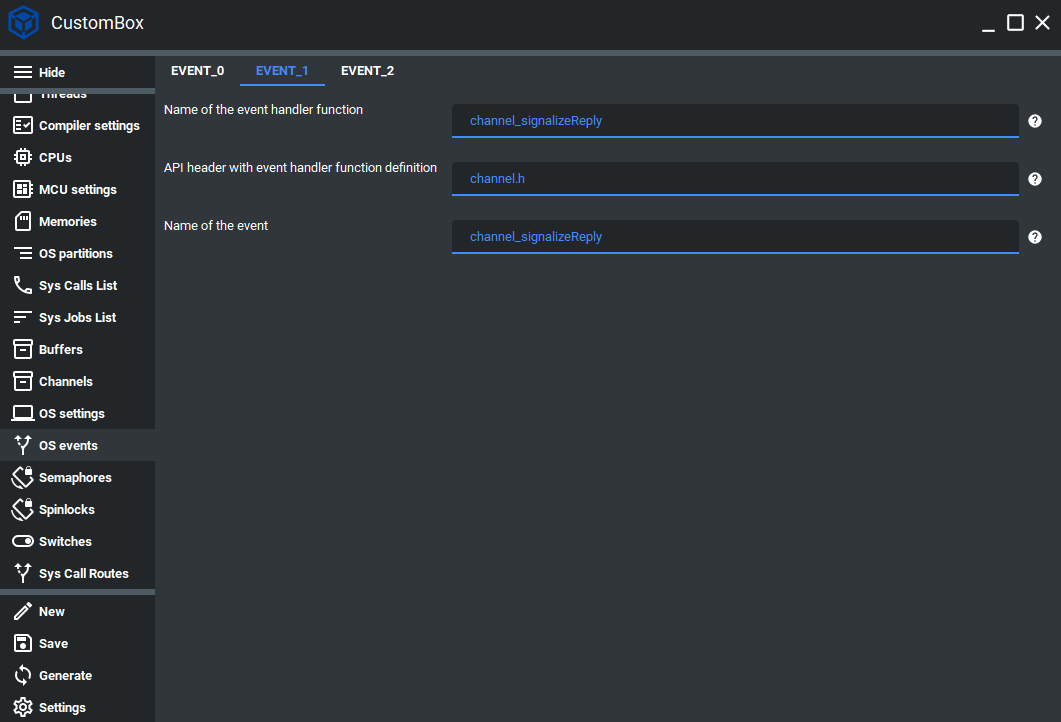
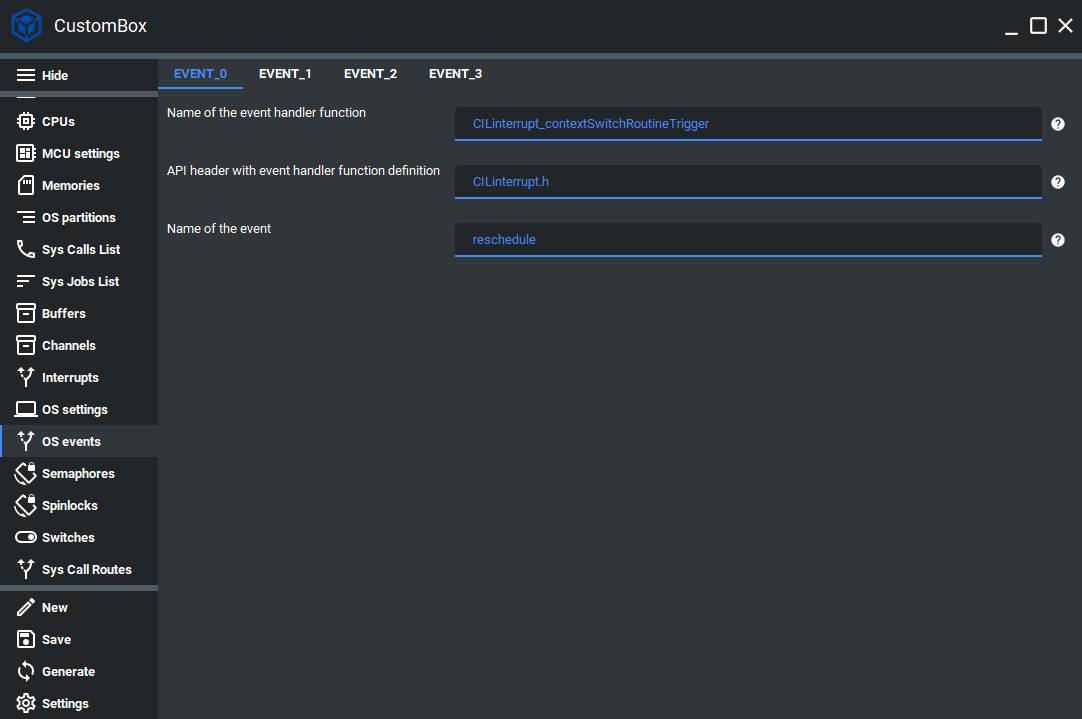
docu update

diff --git a/conf.py b/conf.py
@@ -78,6 +78,6 @@ html_favicon = 'favicon.ico'
 
 
 
-def setup(app: Sphinx) -> None:
+#def setup(app: Sphinx) -> None:
     # set recursice to false for a significant generation time reduction
-    convert_doxygen_to_rst(breathe_projects[breathe_default_project], "doxygen_rst", "Modules", "modules", recursive=True)
+    #convert_doxygen_to_rst(breathe_projects[breathe_default_project], "doxygen_rst", "Modules", "modules", recursive=True)

diff --git a/sites/demo/interrupt.rst b/sites/demo/interrupt.rst
@@ -1,2 +1,62 @@
 Interrupt
 =============================
+The interrupt module is dedicated to configure and dispatch all interrupts in the
+system. In the CosmOS we differentiate between two types of interrupts handling
+techniques - fast and slow.
+Fast interrupt is a method where the interrupt is handled directly in the Interrupt
+Service Routine (ISR). This allows user to handle the
+most critical interrupts immediately and it the interrupt service routine execution
+time should be very low.
+Slow interrupt is a method where the interrupt is handled in its specific thread.
+The thread is unblocked after the interrupt occurs, and
+blocked again when it is handled. This allows user to create non-blocking interrupt
+handling directly in the user space for non-critical interrupts and therefore it is
+possible to implement much complex algorithm inside the handling thread. We still
+suggest to keep the handler thread algorithm complexity at the minimum.
+For more information please read the interrupt section in the :ref:`about_whitepaper`.
+
+Configuration
+--------------
+1. Open the CustomBox
+```````````````````````
+Then we have to open from the left panel Interrupts tab to see all configured interrupt elements in the system as it is shown in the picture below.
+
+.. image:: ../../images/demos/interrupt.png
+
+2. Configure or add new interrupt
+````````````````````````````````````
+- Name of the interrupt is set to TIM2_interrupt, this is the name of the interrupt which will be used to generate interrupt identifier macro.
+- Name of the ISR handler function is set to TIM2_IRQ_Callback, this function will be generated in the interrupt configuration unit and will unblock the interrupt handler thread.
+- Thread is set to TIM2_xCore_IRQHandler_Thread CM7, this thread can call the interrupt handle function and will be unblock if the interrupt occurs.
+
+
+3. Generate
+```````````````
+After we click on the **Generate** button in the CustomBox left panel on the bottom, the interrupt configuration
+code is generated and we can use it in the application layer. The code examples of interrupt usage are shown in the next section.
+
+Code examples
+--------------
+
+Interrupt thread
+```````````````````````````````````
+
+.. code-block:: C
+
+    #include <interrupt.h>
+    #include <errorHandler.h>
+
+    CosmOS_InterruptStateType interruptState;
+
+    for ( ;; )
+    {
+        interruptState = interrupt_handle( TIM2_interrupt_id );
+        if( errorHandler_isError( interruptState ) )
+        {
+            //error was returned, check its value
+        }
+        else
+        {
+            //process interrupt
+        }
+    }

diff --git a/sites/demo/route.rst b/sites/demo/route.rst
@@ -1,2 +1,45 @@
-Route
+SysCall Routes
 =============================
+The route module is dedicated to mapping system calls to specific function handlers and entities.
+Currently, the system calls are used as an interface function for passing correct arguments types. This allows us to have mapped multiple function handlers and entities
+to the one system call interface function. To achieve such behavior, we need to have
+a unique route identifier and retrieve the correct function and entity in the system
+call dispatcher. Routes can be configured via the CosmOS CustomBox GUI in the
+tab Routes by the user or system integrator if there is a need to add some specific
+kernel side service.
+For more information please read the route section in the :ref:`about_whitepaper`.
+
+Configuration
+--------------
+1. Open the CustomBox
+```````````````````````
+Then we have to open from the left panel Sys Call Routes tab to see all configured route elements in the system as it is shown in the picture below.
+
+.. image:: ../../images/demos/route.png
+
+2. Configure or add new route
+````````````````````````````````````
+- Name of the routed function is set to osInit_init, this function will be called by the system call dispatcher in the privileged mode.
+- API header with routed function function definition is set to osInit.h, this is the header file that contains the function declaration.
+- Name of the sysCall is set to sysCalls_bitWidthType_ret_void, this paramter defines the system call function used as interface that transfers the arguments to the system call dispatcher.
+- Visible for application layer is checked, if it would be unchecked the function like macro would not be generated in the cosmosApi header instead it would be in cosmosApiInternal.
+- Is route mapped to entity is unchecked, this parameter is used to map the system call not just to function but also to some entity for instance in the array.
+- Function arguments are empty, this parameter can be used if the function needs some arguments.
+- Type o the returned value is set to void as the function does not return anything, if we need to return some specific type we can specify it here.
+
+3. Generate
+```````````````
+After we click on the **Generate** button in the CustomBox left panel on the bottom, the route configuration
+code is generated and we can use it in the application layer. The code examples of route usage are shown in the next section.
+
+Code examples
+--------------
+
+Cosmos API route
+`````````````````````
+
+.. code-block:: C
+
+    #include <cosmosApi.h>
+
+    cosmosApi_osInit_init();

diff --git a/sites/demo/event.rst b/sites/demo/event.rst
@@ -1,2 +1,65 @@
 Event
 =============================
+The operating system event unit handles the triggering and dispatching of the
+events withing the operating system.
+The main idea of the operating system events is to be able to trigger event from
+the one core and handle it with the others.
+For more information please read the event section in the :ref:`about_whitepaper`.
+
+Configuration
+--------------
+1. Open the CustomBox
+```````````````````````
+Then we have to open from the left panel Events tab to see all configured event elements in the system as it is shown in the picture below.
+
+.. image:: ../../images/demos/event.png
+
+2. Configure or add new event
+````````````````````````````````````
+- Name of the event handler function is set to CILinterrupt_contextSwitchRoutineTrigger, this function will be called by the event dispatcher on the required cores.
+- API header with event handler function definition is set to CILinterrupt.h, this is the header file that contains the function declaration.
+- Name of the event is set to reschedule, this is the name of the event which will be used to generate event identifier macro.
+
+3. Generate
+```````````````
+After we click on the **Generate** button in the CustomBox left panel on the bottom, the event configuration
+code is generated and we can use it in the application layer. The code examples of event usage are shown in the next section.
+
+Code examples
+--------------
+
+Event trigger on every other core
+```````````````````````````````````
+
+.. code-block:: C
+
+    #include <os.h>
+    #include <event.h>
+    #include <errorHandler.h>
+
+    BitWidthType yourEvent;
+    CosmOS_OsEventStateType osEventState;
+
+    CosmOS_OsConfigurationType * osCfg;
+
+    osCfg = os_getOsCfg();
+
+    CosmOS_BooleanType osEventHandleCore[osCfg->numberOfCores];
+
+    for ( BitWidthType coreIt = 0; coreIt < osCfg->numberOfCores; coreIt++ )
+    {
+        osEventHandleCore[coreIt] = True;
+    }
+
+    yourEvent = 100;
+
+    osEventState = osEvent_triggerEvent(
+        OS_EVENT_YOUR_EVENT_CONFIGURED_IN_CUSTOMBOX,
+        osEventHandleCore,
+        (AddressType *)&yourEvent,
+        sizeof( yourEvent ) );
+
+    if( errorHandler_isError( osEventState ) )
+    {
+        //error was returned, check its value
+    }

diff --git a/sites/demo/switch.rst b/sites/demo/switch.rst
@@ -1,2 +1,43 @@
 Switch
 =============================
+
+The switches module enables the user and integrator to turn on/off some of
+the operating system functionalities, which might depend on hardware or are just
+optional features and do not affect the operating system.
+This module has one switch header file per functionality that might be turned
+on/off during the system configuration. This header file provides switch macro API
+which can be mapped to the real function implementations or serve as stubbed
+functions. Therefore, we don't have to create macro guards around specific function
+calls.
+
+For more information please read the switches section in the :ref:`about_whitepaper`.
+
+Configuration
+--------------
+1. Open the CustomBox
+```````````````````````
+Then we have to open from the left panel Switch tab to see all configured switch elements in the system as it is shown in the picture below.
+
+.. image:: ../../images/demos/switch.png
+
+2. Configure or add new switch
+`````````````````````````````````````
+- State of the switch is set to on (checked checkbox), to turn it off we just uncheck the checkbox.
+
+.. note::  This page is planned to be completed within a **Live release**. The switch functionality will be expanded.
+
+3. Generate
+```````````````
+After we click on the **Generate** button in the CustomBox left panel on the bottom, the switch configuration
+code is generated.
+
+Code examples
+--------------
+
+Performance scheduling switch
+```````````````````````````````````
+
+.. code-block:: C
+
+    /* SCHEDULER_PERFORMANCE_SCHEDULING IS_EQUAL_TO ON */
+    switchScheduler_performanceScheduling( ... );

diff --git a/sites/demo/errorHandler.rst b/sites/demo/errorHandler.rst
@@ -1,2 +1,30 @@
 Error handler
 =============================
+The error handler module detects, traces and handles all errors which can occur
+within the operating system.
+The errors are traced for the every program configured in the operating system
+that can be later used for the debug purpose. Error processing allows to trigger the
+required error reaction which can be configured in the the CosmOS CustomBox.
+
+Configuration
+--------------
+.. note::  This page is planned to be completed within a **Live release**. The error handler functionality will be expanded.
+
+Code examples
+--------------
+
+Check if returned value is error
+```````````````````````````````````
+
+.. code-block:: C
+
+    #include <interrupt.h>
+    #include <errorHandler.h>
+
+    CosmOS_InterruptStateType interruptState;
+
+    interruptState = interrupt_handle( TIM2_interrupt_id );
+    if( errorHandler_isError( interruptState ) )
+    {
+        //error was returned, check its value
+    }

diff --git a/index.rst b/index.rst
@@ -6,7 +6,7 @@
 Welcome to CosmOS's pages!
 ==================================
 This website is our main knowledge base. It provides all necessary information about the project.
-You cab find here how to use the operating system with a lot of demo examples, how you can contribute to the project, what tools we
+You can find here how to use the operating system with a lot of demo examples, how you can contribute to the project, what tools we
 use and all other essential information. We highly suggest starting here to find everything from
 the basic overview to the deep technical details.
 
@@ -20,6 +20,7 @@ the basic overview to the deep technical details.
     sites/documentation
     sites/demo
     sites/kudos
+    sites/supportTheIdea
     sites/community
     sites/socials
     sites/contact

diff --git a/sites/supportTheIdea.rst b/sites/supportTheIdea.rst
@@ -15,7 +15,7 @@ I am a private person
 -----------------------
 You can support the idea in many different ways and we appreciate every single one of them:
 
-* Don't be afraid to contribute, we appreciate even the smallest contributions such as fixxing typos :)
+* We would like to encourage you to contribute, we appreciate even the smallest contributions such as fixxing typos :)
 * Star our GitHub `repositories <https://github.com/CosmOS-Creators>`_, it really helps!
 * Follow our social media pages or join the `community <https://discord.gg/XTabzYYVxS/>`_.
 * Share some links that can bring more people to see what we are building and eventually join the community.

diff --git a/sites/whatIs/referenceProject/examplePrograms.rst b/sites/whatIs/referenceProject/examplePrograms.rst
@@ -48,6 +48,12 @@ TCPIP CM7 Thread
 ````````````````````
 This thread contains demo LWIP code with the TCP/IP echo initialization and ethernet input function calls.
 
+Interrupt handlers CM7
+-------------------------
+TIM2 xCore IRQHandler Thread CM7
+````````````````````````````````````````````
+This thread handles the timer 2 interrupt, that is actually triggered on the different core (CM4) to test its functionality.
+
 Logger
 ---------------
 Logger Thread

diff --git a/sites/howTo/setupReferenceProject/stmIde/import.rst b/sites/howTo/setupReferenceProject/stmIde/import.rst
@@ -6,7 +6,7 @@ This page will provide you with information about how to import the reference pr
 Prerequisites
 --------------
 
-- Locally installed `STM32 Cube IDE <https://www.st.com/en/development-tools/stm32cubeide.html>`_
+- Locally installed `STM32 Cube IDE 1.5.1 <https://www.st.com/en/development-tools/stm32cubeide.html>`_
 
 
 First time STM32 Cube IDE project import

diff --git a/sites/demo/memory/dynamicAllocation.rst b/sites/demo/memory/dynamicAllocation.rst
@@ -41,7 +41,7 @@ The new and delete operators can be used after operating system start-up in any 
 
     int * integerPointer = new int( 100 );
 
-    if( IS_NOT( integerPointer ) )
+    if( integerPointer )
     {
         delete integerPointer;
     }

diff --git a/sites/about.rst b/sites/about.rst
@@ -11,5 +11,4 @@ Following pages provide the basic information about the CosmOS project.
     about/mainFeatures
     about/roadmap
     about/releaseNotes
-    about/supportTheIdea
     about/whitepaper
